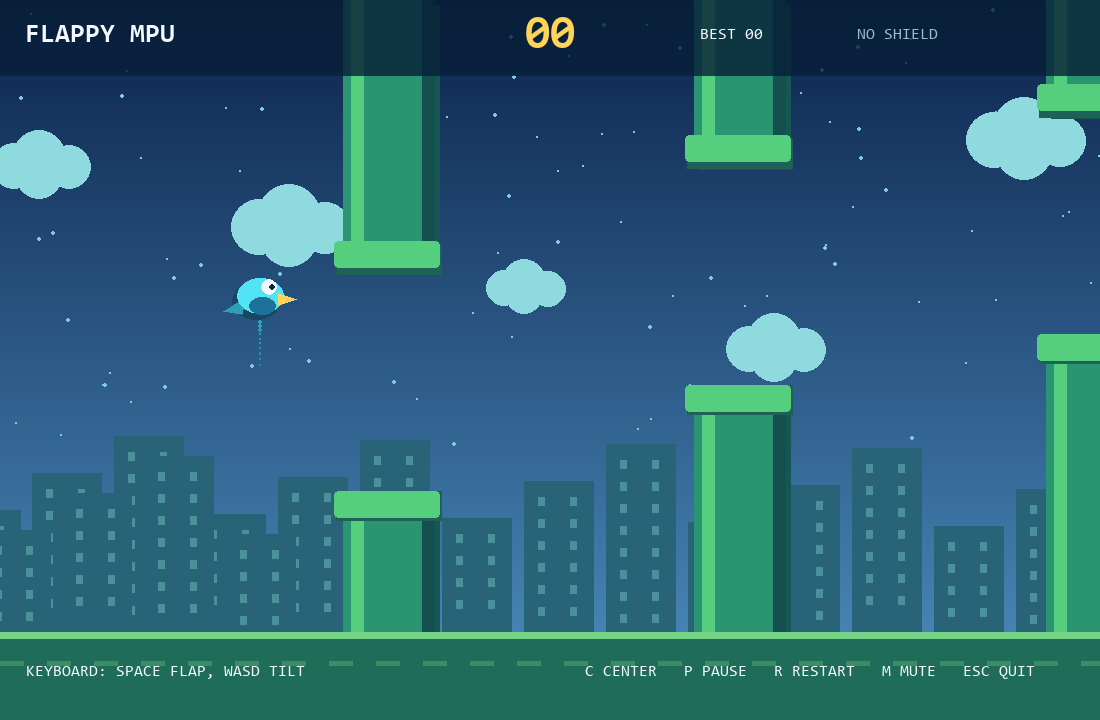
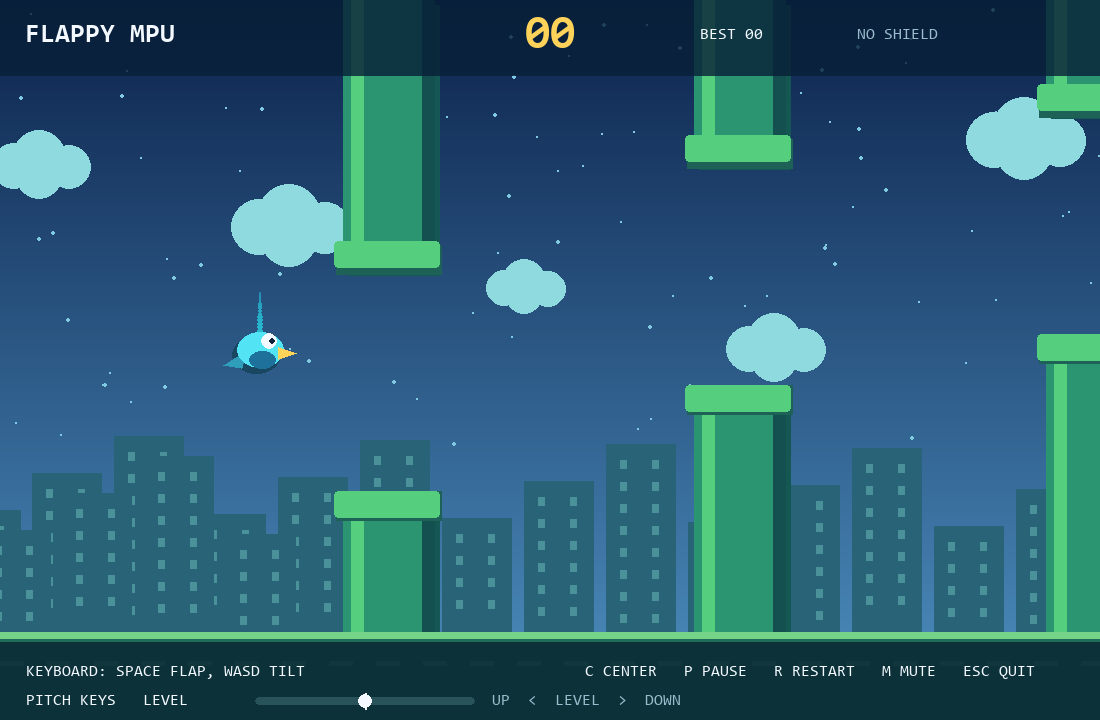
Make Flappy MPU pitch control responsive

Changed region(s): [[0.0, 0.8861, 1.0, 1.0], [0.1855, 0.3667, 0.2782, 0.5194]]

diff --git a/flappy_imu.py b/flappy_imu.py
@@ -50,6 +50,13 @@ def circle_hits_rect(x: float, y: float, radius: float, rect: pygame.Rect) -> bo
     return (x - nearest_x) ** 2 + (y - nearest_y) ** 2 < radius ** 2
 
 
+def pitch_axis(degrees: float) -> float:
+    """Make a small physical tilt visible without amplifying one-degree jitter."""
+    if abs(degrees) <= 1.0:
+        return 0.0
+    return clamp(math.copysign((abs(degrees) - 1.0) / 14.0, degrees), -1.0, 1.0)
+
+
 class FlappyGame:
     def __init__(self, seed: int | None = None) -> None:
         self.rng = random.Random(seed)
@@ -60,6 +67,7 @@ class FlappyGame:
         self.x = 260.0
         self.y = 350.0
         self.vy = 0.0
+        self.glide_input = 0.0
         self.score = 0
         self.passed = 0
         self.shield = 0
@@ -109,6 +117,7 @@ class FlappyGame:
             return
         self.elapsed += dt
         roll, pitch = clamp(roll, -1, 1), clamp(pitch, -1, 1)
+        self.glide_input = pitch
         desired_x = 260 + 95 * roll
         self.x += (desired_x - self.x) * min(1.0, 6.0 * dt)
 
@@ -131,8 +140,14 @@ class FlappyGame:
         if flap:
             self._flap()
 
-        gravity = 840 + 210 * pitch  # Positive pitch now means a steeper downward glide.
+        gravity = 770 + 420 * pitch
         self.vy = min(530.0, self.vy + gravity * dt)
+        if pitch < -0.15:
+            # Up tilt immediately brakes a fall; a strong tilt can lift slowly.
+            self.vy = min(self.vy, 230 + 370 * pitch)
+        elif pitch > 0.15:
+            # Down tilt commits to a dive rather than waiting for gravity to build speed.
+            self.vy = max(self.vy, 175 * pitch)
         self.y += self.vy * dt
         self.trail.append((self.x, self.y))
         self.trail = self.trail[-24:]
@@ -256,6 +271,9 @@ class Renderer:
         pygame.draw.rect(surface, (117, 212, 135), (0, GROUND, WIDTH, 7))
         for x in range(0, WIDTH, 47):
             pygame.draw.rect(surface, (58, 141, 101), (x, GROUND + 29, 24, 5))
+        footer = pygame.Surface((WIDTH, HEIGHT - GROUND - 10), pygame.SRCALPHA)
+        footer.fill((8, 37, 51, 210))
+        surface.blit(footer, (0, GROUND + 10))
 
         hud = pygame.Surface((WIDTH, 76), pygame.SRCALPHA)
         hud.fill((8, 31, 55, 206))
@@ -275,6 +293,17 @@ class Renderer:
         surface.blit(self.small.render(sensor, True, WHITE), (26, HEIGHT - 56))
         surface.blit(self.small.render("C CENTER   P PAUSE   R RESTART   M MUTE   ESC QUIT", True, WHITE),
                      (585, HEIGHT - 56))
+        glide = "LIFT" if game.glide_input < -0.15 else ("DIVE" if game.glide_input > 0.15 else "LEVEL")
+        raw_pitch = f"{controller.pitch:+.1f}°" if controller and controller.live else "KEYS"
+        surface.blit(self.small.render(f"PITCH {raw_pitch}   {glide}", True,
+                                       CYAN if glide == "LIFT" else GOLD if glide == "DIVE" else WHITE),
+                     (26, HEIGHT - 27))
+        pygame.draw.rect(surface, (40, 83, 91), (255, HEIGHT - 23, 220, 8), border_radius=4)
+        pygame.draw.line(surface, WHITE, (365, HEIGHT - 27), (365, HEIGHT - 11), 2)
+        marker_x = round(365 + game.glide_input * 104)
+        pygame.draw.circle(surface, CYAN if glide == "LIFT" else GOLD if glide == "DIVE" else WHITE,
+                           (marker_x, HEIGHT - 19), 7)
+        surface.blit(self.small.render("UP  <  LEVEL  >  DOWN", True, MUTED), (492, HEIGHT - 27))
 
         if game.status == "ready" or game.status == "over" or game.paused:
             shade = pygame.Surface((WIDTH, HEIGHT), pygame.SRCALPHA)
@@ -289,7 +318,7 @@ class Renderer:
                 detail = "Shake the MPU6050 or press Space to flap"
             line = self.title.render(detail, True, CYAN)
             surface.blit(line, line.get_rect(center=(WIDTH // 2, HEIGHT // 2 + 5)))
-            help_text = "Tilt forward/back to glide; left/right to steer" if not game.paused else "Press P to resume"
+            help_text = "Tilt up to lift, down to dive; left/right to steer" if not game.paused else "Press P to resume"
             help_line = self.small.render(help_text, True, WHITE)
             surface.blit(help_line, help_line.get_rect(center=(WIDTH // 2, HEIGHT // 2 + 55)))
 
@@ -338,7 +367,7 @@ def main() -> None:
             controller.update()
             keys = pygame.key.get_pressed()
             roll = deadzone(controller.roll) * (-1 if args.invert_roll else 1) if controller.live else 0.0
-            pitch = deadzone(controller.pitch) * (-1 if args.invert_pitch else 1) if controller.live else 0.0
+            pitch = pitch_axis(controller.pitch) * (-1 if args.invert_pitch else 1) if controller.live else 0.0
             if keys[pygame.K_a] or keys[pygame.K_LEFT]:
                 roll = -1.0
             if keys[pygame.K_d] or keys[pygame.K_RIGHT]:

diff --git a/README.md b/README.md
@@ -140,7 +140,7 @@ Run `python prism_sync.py`. Use `--invert-yaw` if the twist direction feels back
 
 ## Play Flappy MPU
 
-Shake the controller once to start and flap. Time further shakes to fly through the openings in the green pipes. Tilt forward/back to adjust how quickly the bird falls, and tilt left/right to move it a short distance horizontally. A gold feather appears in every fourth pipe opening; collecting it gives a one-hit shield and two bonus points. After a crash, shake again to restart.
+Shake the controller once to start and flap. Time further shakes to fly through the openings in the green pipes. Tilt up to slow a fall or lift gently; tilt down to dive. Tilt left/right to move a short distance horizontally. A gold feather appears in every fourth pipe opening; collecting it gives a one-hit shield and two bonus points. After a crash, shake again to restart.
 
 | Action | MPU6050 / keyboard |
 | --- | --- |
@@ -152,7 +152,7 @@ Shake the controller once to start and flap. Time further shakes to fly through 
 | Mute / unmute | `M` |
 | Quit | `Esc` |
 
-Run `python flappy_imu.py`. The `--shake-threshold` option changes how strong a shake is needed, for example `python flappy_imu.py --shake-threshold 3.0`. Flappy MPU uses the newer `MOTION,...` serial packet for shake detection; the keyboard fallback still works without an ESP32.
+Run `python flappy_imu.py`. The bottom of the screen shows the received pitch angle, an up/down marker, and the current `LIFT`, `LEVEL`, or `DIVE` state. If the direction is reversed on your board, add `--invert-pitch`. The `--shake-threshold` option changes how strong a shake is needed, for example `python flappy_imu.py --shake-threshold 3.0`. Flappy MPU uses the newer `MOTION,...` serial packet for shake detection; the keyboard fallback still works without an ESP32.
 
 The games read USB serial at 115200 baud. The sketch sends `IMU,<roll degrees>,<pitch degrees>` and `MOTION,<roll degrees>,<pitch degrees>,<yaw degrees/second>,<shake m/s²>` about 50 times per second. The `IMU` packet keeps the first three games compatible; Gyro Forge, Prism Sync 3D, and Flappy MPU read the extra motion values. Sending `C` resets tilt center and gyro bias. The sketch's left/right roll direction is reversed with `ROLL_DIRECTION = -1.0`. The games reconnect automatically if the board is unplugged and reconnected.
 
@@ -164,6 +164,7 @@ The games read USB serial at 115200 baud. The sketch sends `IMU,<roll degrees>,<
 | Sketch reports MPU6050 not found | Recheck 3V3, GND, SDA 21, SCL 22; ensure the board and module share ground. |
 | Aircraft drifts | Hold the controller neutral and press `C`. |
 | Controls are backward | Use `--invert-roll` or `--invert-pitch`. |
+| Flappy MPU up/down tilt seems inactive | Check whether the pitch number and marker at the bottom move; press `C` while level to recenter. If the marker moves in the opposite direction, use `--invert-pitch`. |
 | A motion game has tilt but no twist or shake | Re-upload the updated sketch and check for `MOTION,...` lines in Serial Monitor, then close the monitor. |
 | Shake pulse triggers too often or not at all | Watch the shake value at the bottom of Gyro Forge and adjust `--shake-threshold`. |
 | Python says `No module named pygame` | Activate the virtual environment and run `python -m pip install -r requirements.txt`. |
